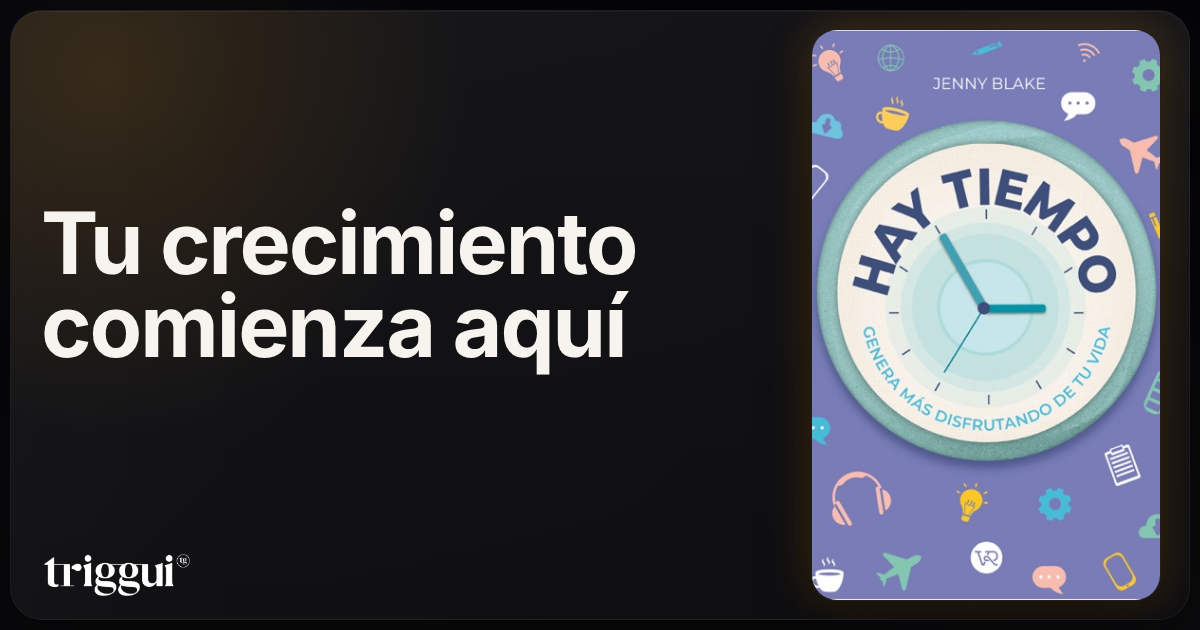
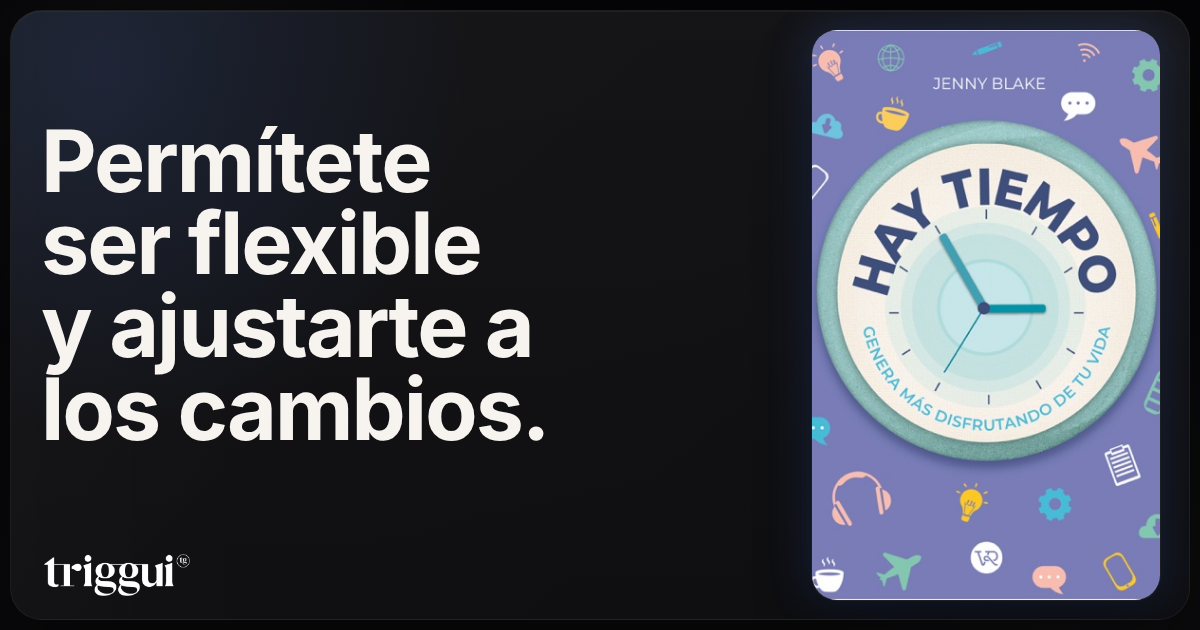
✨ Nueva edición: hay-tiempo

Changed region(s): [[0.0308, 0.3317, 0.555, 0.7238], [0.0308, 0.0, 0.37, 0.3016]]

diff --git a/public/t/hay-tiempo/index.html b/public/t/hay-tiempo/index.html
@@ -4,12 +4,12 @@
 <meta charset="UTF-8">
 <meta name="viewport" content="width=device-width, initial-scale=1, maximum-scale=1, user-scalable=no, viewport-fit=cover">
 
-<title>Hay tiempo** · Hay tiempo · Triggui</title>
-<meta name="description" content="💡 Conecta con tu propósito. | Escribe lo que te inspira" />
+<title>Tiempo presente · Hay tiempo · Triggui</title>
+<meta name="description" content="🤝 Conecta con tus pasiones y crea tu camino único.🌍" />
 <link rel="canonical" href="https://beta.app.triggui.com/t/hay-tiempo/" />
 
-<meta property="og:title" content="reinvención · oportunidad · crecimiento · transformación" />
-<meta property="og:description" content="💡 Conecta con tu propósito. | Escribe lo que te inspira" />
+<meta property="og:title" content="autenticidad · crecimiento · adaptabilidad · oportunidades" />
+<meta property="og:description" content="🤝 Conecta con tus pasiones y crea tu camino único.🌍" />
 <meta property="og:image" content="https://beta.app.triggui.com/t/hay-tiempo/og.png" />
 <meta property="og:image:width" content="1200" />
 <meta property="og:image:height" content="630" />
@@ -19,8 +19,8 @@
 <meta property="og:locale" content="es_MX" />
 
 <meta name="twitter:card" content="summary_large_image" />
-<meta name="twitter:title" content="reinvención · oportunidad · crecimiento · transformación" />
-<meta name="twitter:description" content="💡 Conecta con tu propósito. | Escribe lo que te inspira" />
+<meta name="twitter:title" content="autenticidad · crecimiento · adaptabilidad · oportunidades" />
+<meta name="twitter:description" content="🤝 Conecta con tus pasiones y crea tu camino único.🌍" />
 <meta name="twitter:image" content="https://beta.app.triggui.com/t/hay-tiempo/og.png" />
 
 <link rel="preconnect" href="https://www.penguinlibros.com" crossorigin>
@@ -548,7 +548,7 @@ body::before {
 }
 </style>
 </head>
-<body data-lab-v="live-edition-card-v3" style="--accent:#f39c12;--marker:#f39c1230;--chip-bg:#f39c1214;--card-paper:#F7F7F5;--card-ink:#1A1A1A;--card-border:rgba(26,26,26,0.06);--ed-title-size:26.08px;--ed-title-size-mobile:23.23px;--ed-para-size:17.67px;--ed-para-size-mobile:17.24px;--ed-sub-size:17.42px;--ed-sub-size-mobile:17.02px;--ed-chip-size:14.5px;--ed-chip-size-mobile:13.76px;--ed-cover-width:112.43px;--ed-cover-width-mobile:100.43px;">
+<body data-lab-v="live-edition-card-v3" style="--accent:#4b7be5;--marker:#4b7be530;--chip-bg:#4b7be514;--card-paper:#F7F7F5;--card-ink:#1A1A1A;--card-border:rgba(26,26,26,0.06);--ed-title-size:25.4px;--ed-title-size-mobile:22.8px;--ed-para-size:17.4px;--ed-para-size-mobile:17.0px;--ed-sub-size:17.2px;--ed-sub-size-mobile:16.8px;--ed-chip-size:14.3px;--ed-chip-size-mobile:13.6px;--ed-cover-width:110.0px;--ed-cover-width-mobile:98.0px;">
 
 <div id="pulseLine" class="pulse-line"></div>
 <div class="grid" id="grid"></div>
@@ -565,15 +565,15 @@ body::before {
             <img src="https://is1-ssl.mzstatic.com/image/thumb/Publication221/v4/2c/ba/00/2cba0031-7acc-68f5-3a50-596fbc5a4ccf/1045156369.jpg/600x600bb.jpg" alt="Hay tiempo" />
             <span class="cover-hint">Toca el libro</span>
           </div>
-          <div class="ed-title" id="editorialTitle">Hay tiempo**</div>
+          <div class="ed-title" id="editorialTitle">Tiempo presente</div>
           <div class="ed-chip" id="editorialChip">Jenny Blake</div>
-          <div class="ed-para" id="editorialTopPara"><span class="tg-hl">La vida está llena de ciclos y oportunidades para reenfocar nuestros caminos.</span></div>
+          <div class="ed-para" id="editorialTopPara"><span class="tg-hl">Un nuevo camino comienza cuando decides ajustar tu rumbo.</span> La vida ofrece múltiples giros, y reconocerlos es esencial para avanzar. En cada decisión reside la posibilidad de reconfigurar el trayecto hacia donde deseas ir. Cada momento cuenta, y perderse en lo que pudo ser solo distrae del ahora. Elige una pasión o un pequeño cambio, hazlo hoy mismo: tómate 1 minuto para anotar tres acciones que puedes realizar esta semana.</div>
         </div>
       </div>
       <div class="ed-gap"></div>
       <div class="ed-block" id="editorialBlockBottom">
-        <div class="ed-sub" id="editorialSub">Descubre cómo gestionar el tiempo y los cambios</div>
-        <div class="ed-para" id="editorialBottomPara">Cada decisión puede ser un nuevo comienzo; encuentra tu norte en este viaje de autodescubrimiento Empieza tu reinvención hoy. <span class="tg-hl">| Reflexiona sobre tus metas.</span></div>
+        <div class="ed-sub" id="editorialSub">¿Qué cambia cuando ¿qué cambia cuando tiempo se vuelve práctica?</div>
+        <div class="ed-para" id="editorialBottomPara"><span class="tg-hl">Empieza hoy mismo a explorar nuevas posibilidades.🚀</span></div>
       </div>
 
       <div class="card-actions">
@@ -595,11 +595,11 @@ body::before {
             <img class="btn-busca-logo" src="/buscalibre.png" alt="Buscalibre">
           </a>
 
-          <a class="btn-dark btn-crystal" id="btnCrystal" href="https://www.buscalibre.com.mx/libros/search/?q=reinvenci%C3%B3n" target="_blank" rel="noopener noreferrer">
+          <a class="btn-dark btn-crystal" id="btnCrystal" href="https://www.buscalibre.com.mx/libros/search/?q=autenticidad" target="_blank" rel="noopener noreferrer">
             <span class="btn-emoji">🔮</span>
           </a>
 
-          <a class="btn-dark btn-penguin-icon" id="btnPenguin" href="https://www.penguinlibros.com/mx/?mot_q=reinvenci%C3%B3n" target="_blank" rel="noopener noreferrer">
+          <a class="btn-dark btn-penguin-icon" id="btnPenguin" href="https://www.penguinlibros.com/mx/?mot_q=autenticidad" target="_blank" rel="noopener noreferrer">
             <img src="/logopenguin.png" alt="Penguin">
           </a>
         </div>
@@ -621,7 +621,7 @@ body::before {
 </div>
 
 <script>
-const state = {"id": "hay-tiempo", "titulo": "Hay tiempo", "autor": "Jenny Blake", "palabra": "Hay tiempo**", "descripcion": "La vida está llena de ciclos y oportunidades para reenfocar nuestros caminos.", "palabras": ["reinvención", "oportunidad", "crecimiento", "transformación"], "frases": ["🚀 Empieza tu reinvención hoy. | Reflexiona sobre tus metas.", "🌱 Cada día es una oportunidad. | Haz un pequeño cambio.", "💡 Conecta con tu propósito. | Escribe lo que te inspira.", "✨ Tu crecimiento comienza aquí. | Da un paso adelante."], "colores": ["#6B8E23", "#FFD700", "#FF4500", "#4682B4"], "textColors": ["#FFFFFF", "#000000", "#FFFFFF", "#FFFFFF"], "ogImage": "https://beta.app.triggui.com/t/hay-tiempo/og.png", "portada": "https://is1-ssl.mzstatic.com/image/thumb/Publication221/v4/2c/ba/00/2cba0031-7acc-68f5-3a50-596fbc5a4ccf/1045156369.jpg/600x600bb.jpg", "tagline": ""};
+const state = {"id": "hay-tiempo", "titulo": "Hay tiempo", "autor": "Jenny Blake", "palabra": "Tiempo presente", "descripcion": "Un nuevo camino comienza cuando decides ajustar tu rumbo. La vida ofrece múltiples giros, y reconocerlos es esencial para avanzar. En cada decisión reside la posibilidad de reconfigurar el trayecto hacia donde deseas ir. Cada momento cuenta, y perderse en lo que pudo ser solo distrae del ahora. Elige una pasión o un pequeño cambio, hazlo hoy mismo: tómate 1 minuto para anotar tres acciones que puedes realizar esta semana.", "palabras": ["autenticidad", "crecimiento", "adaptabilidad", "oportunidades"], "frases": ["🌱 Empieza hoy mismo a explorar nuevas posibilidades.🚀", "💡 Permítete ser flexible y ajustarte a los cambios.📅", "✨ Aprecia cada momento, el tiempo es valioso.⏳", "🤝 Conecta con tus pasiones y crea tu camino único.🌍"], "colores": ["#1F3A3D", "#F7C6C7", "#E8B31D", "#A2D0B8"], "textColors": ["#FFFFFF", "#000000", "#000000", "#000000"], "ogImage": "https://beta.app.triggui.com/t/hay-tiempo/og.png", "portada": "https://is1-ssl.mzstatic.com/image/thumb/Publication221/v4/2c/ba/00/2cba0031-7acc-68f5-3a50-596fbc5a4ccf/1045156369.jpg/600x600bb.jpg", "tagline": ""};
 const grid = document.getElementById('grid');
 const revealOverlay = document.getElementById('revealOverlay');
 const btnBack = document.getElementById('btnBack');
